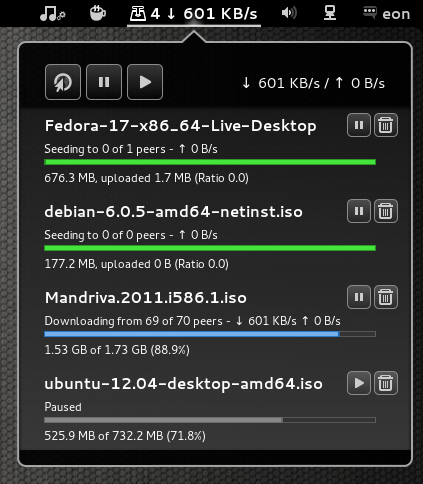
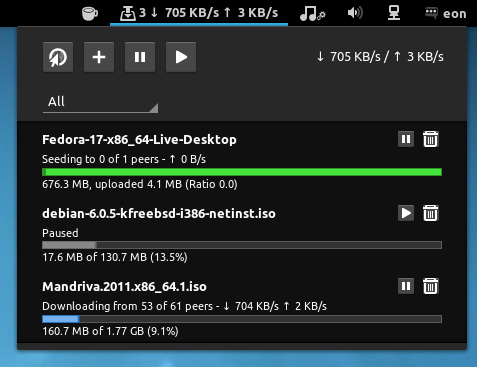
Update screenshots

diff --git a/README.md b/README.md
@@ -6,6 +6,10 @@ This extension supports only gnome-shell 3.4
 
 ![Screenshot](https://github.com/eonpatapon/gnome-shell-extension-transmission-daemon/raw/master/screenshot.png)
 
+![Add torrents](https://github.com/eonpatapon/gnome-shell-extension-transmission-daemon/raw/master/screenshot-add.png)
+
+![Filter torrents by state](https://github.com/eonpatapon/gnome-shell-extension-transmission-daemon/raw/master/screenshot-filter.png)
+
 ## Installation
 
 ### Via extensions.gnome.org
